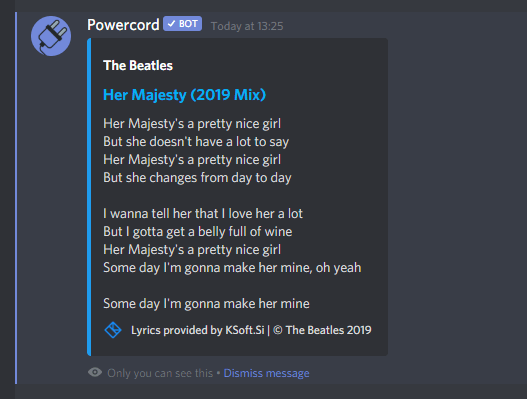
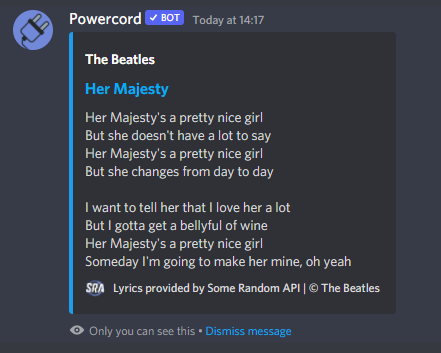
fix plugin (please see readme privacy notice as api changed)

Changed region(s): [[0.0295, 0.0312, 0.8844, 0.966]]

diff --git a/index.js b/index.js
@@ -18,15 +18,12 @@ module.exports = class Lyrics extends Plugin {
     }
 
     async searchLyrics(args) {
-
-        const base = 'https://lyrics-api.powercord.dev/lyrics?input='; // the base URL for searching lyrics
+        const base = 'https://some-random-api.ml/lyrics?title=';
 
         try {
             const playingOnSpotify = spotifySocket.getTrack(); // thanks to Harley for this!
 
-            // no args were provided
             if (!args[0]) {
-
                 // Check if there is something playing on Spotify.
                 // If there is, assign that track's artist + name to ``args``
                 if (playingOnSpotify) {
@@ -39,42 +36,37 @@ module.exports = class Lyrics extends Plugin {
                 }
             }
 
-            // The response body as JSON
-            // Since it's destructured, instead of calling data.data[0] or data.data[0].length, we can now just call data[0] or data.length
-            // Basically, we're only getting the data array from this await response
-            const { data } = await get(encodeURI(base + args)).then(res => JSON.parse(res.body));
+            let data;
+            await get(encodeURI(base + args)).then(res => data = res.body);
 
-            // Response had no ``data`` key or data key was empty, which means the query returned nothing
-            if (!data || !data.length) {
+            if (!data || data.error) {
                 return {
                     send: false,
                     result: 'Error: Song not found.'
                 };
             }
             
-            // Destructuring objects for better code readability 
-            let { url, artist, name, album_year, lyrics } = data[0];
+            let { links, author, title, lyrics } = data;
 
             // If the lyrics are more than 2048 characters, the embed's description
             // will simply be a hyperlink to the lyrics
             if (lyrics.length > 2048) {
-                lyrics = `[Click Here](${url})`;
-                url = null;
+                lyrics = `[Click Here](${links.genius})`;
+                links.genius = null;
             }
 
-            // Builds the embed with our data
             const embed = {
                 type: 'rich',
                 author: {
-                    name: artist
+                    name: author
                 },
-                url: url,
-                title: name,
+                url: links.genius,
+                title: title,
                 color: 0x209cee,
                 description: lyrics,
                 footer: {
-                    icon_url: 'https://external-content.duckduckgo.com/iu/?u=https://cdn.ksoft.si/images/Logo128.png',
-                    text: `Lyrics provided by KSoft.Si | © ${artist} ${album_year.split(',')[0]}` // avoid having 100 million different album years
+                    icon_url: 'https://i.some-random-api.ml/logo.png',
+                    text: `Lyrics provided by Some Random API | © ${author}`
                 }
             };
 
@@ -82,7 +74,6 @@ module.exports = class Lyrics extends Plugin {
                 send: false,
                 result: embed
             };
-
         } catch (e) {
             console.error('Error with lyrics plugin:', e);
             return {

diff --git a/README.md b/README.md
@@ -1,15 +1,16 @@
 # lyrics
-Lyrics plugin for Powercord, supports searching and the ``pc-spotify`` plugin! (Confirmed working at 16th March 2021)
-Originally written by ohlookitsderpy, rewritten by spinfish.
+Lyrics plugin for Powercord, supports searching and the ``pc-spotify`` plugin! (Confirmed working at 2nd April 2022)
 
 Currently contains a ``lyrics`` command which works like this: (replace ``.`` with your Powercord prefix)
 * ``.lyrics`` - Returns lyrics of the currently playing song on Spotify.
 * ``.lyrics the beatles her majesty`` - Searches for lyrics of given arguments and returns them.
 
-The lyrics will be shown in an embed as a Clyde message.
+The lyrics will be shown in an embed as a Clyde (Powercord) message.
 
-Output for ``.lyrics the beatles her majesty`` looks (something) like this:
+Output for ``.lyrics the beatles her majesty`` looks like this:
 
 ![image](screenshot.png)
 
-Privacy Notice: Lyrics are obtained via KSoft API through the proxy at ``lyrics-api.powercord.dev``. IPs are not tracked, but you should read the privacy policy for KSoft [here](https://api.ksoft.si/terms-and-privacy). You can also view the code for the proxy server [here](https://github.com/ohlookitsderpy/lyrics-api).
+Privacy Notice: Lyrics are obtained via [Some Random API](https://some-random-api.ml/). In the future, to improve privacy, this may be replaced with a proxy accessing the service.
+
+Credits: initial plugin by David, rewrite by spinfish.
